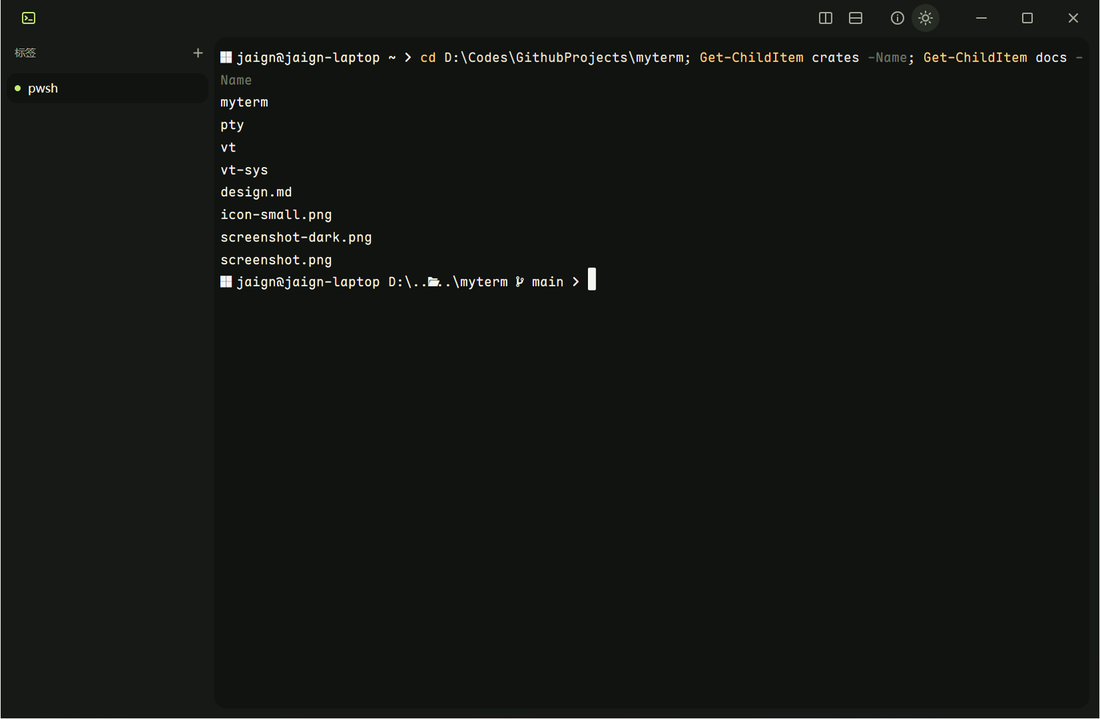
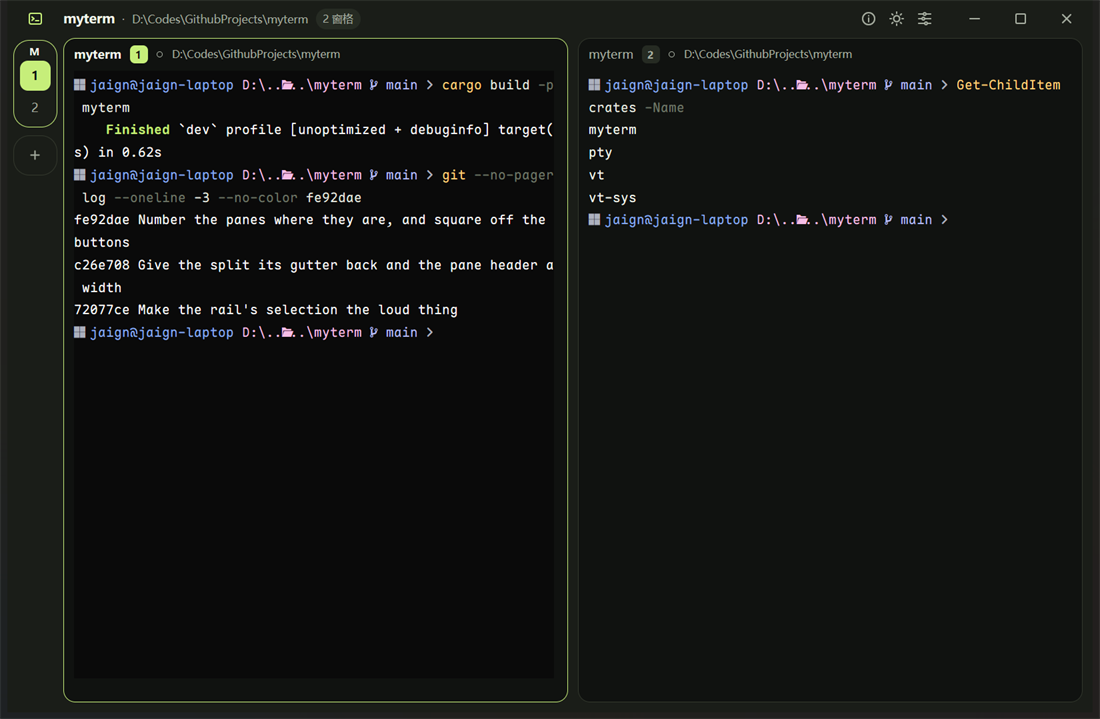
Show the redesigned window in the readme
Both screenshots predate the rail, the pane headers and the two-pane shell: they showed one wide pane with an expanded sidebar. They now show what the app actually opens with - the narrow rail with a tab capsule above pane ordinals, two cards split by the 10px gutter, and a header per pane - captured from the current build at the same 1100x719 so the 880px render in the readme stays put.

diff --git a/README.md b/README.md
@@ -9,7 +9,7 @@
 
 <picture>
   <source media="(prefers-color-scheme: dark)" srcset="docs/screenshot-dark.png">
-  <img src="docs/screenshot.png" alt="myterm 的窗口：左侧一栏标签，右侧是终端卡片" width="880">
+  <img src="docs/screenshot.png" alt="myterm 的窗口：左侧窄条是标签与窗格序号，右侧两张终端卡片各带窗格头" width="880">
 </picture>
 
 终端渲染、键盘与中文输入、多标签、分屏与拖动比例、选区与复制、滚轮回滚、Kitty 图形协议、深浅主题、自动更新与安装都已人工验证。设计取舍写在 [docs/design.md](docs/design.md)。
